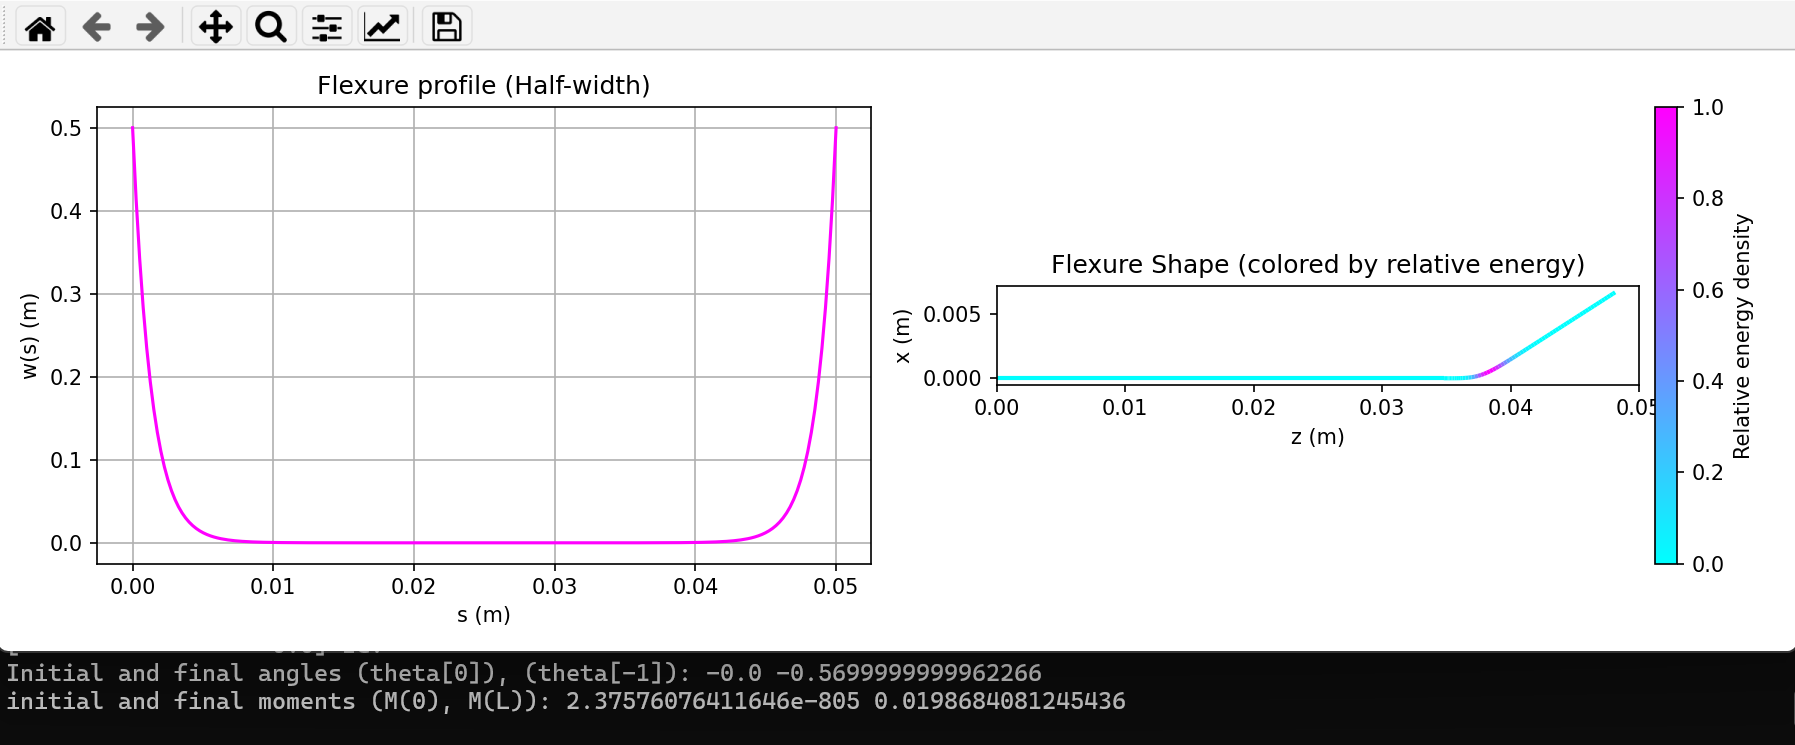
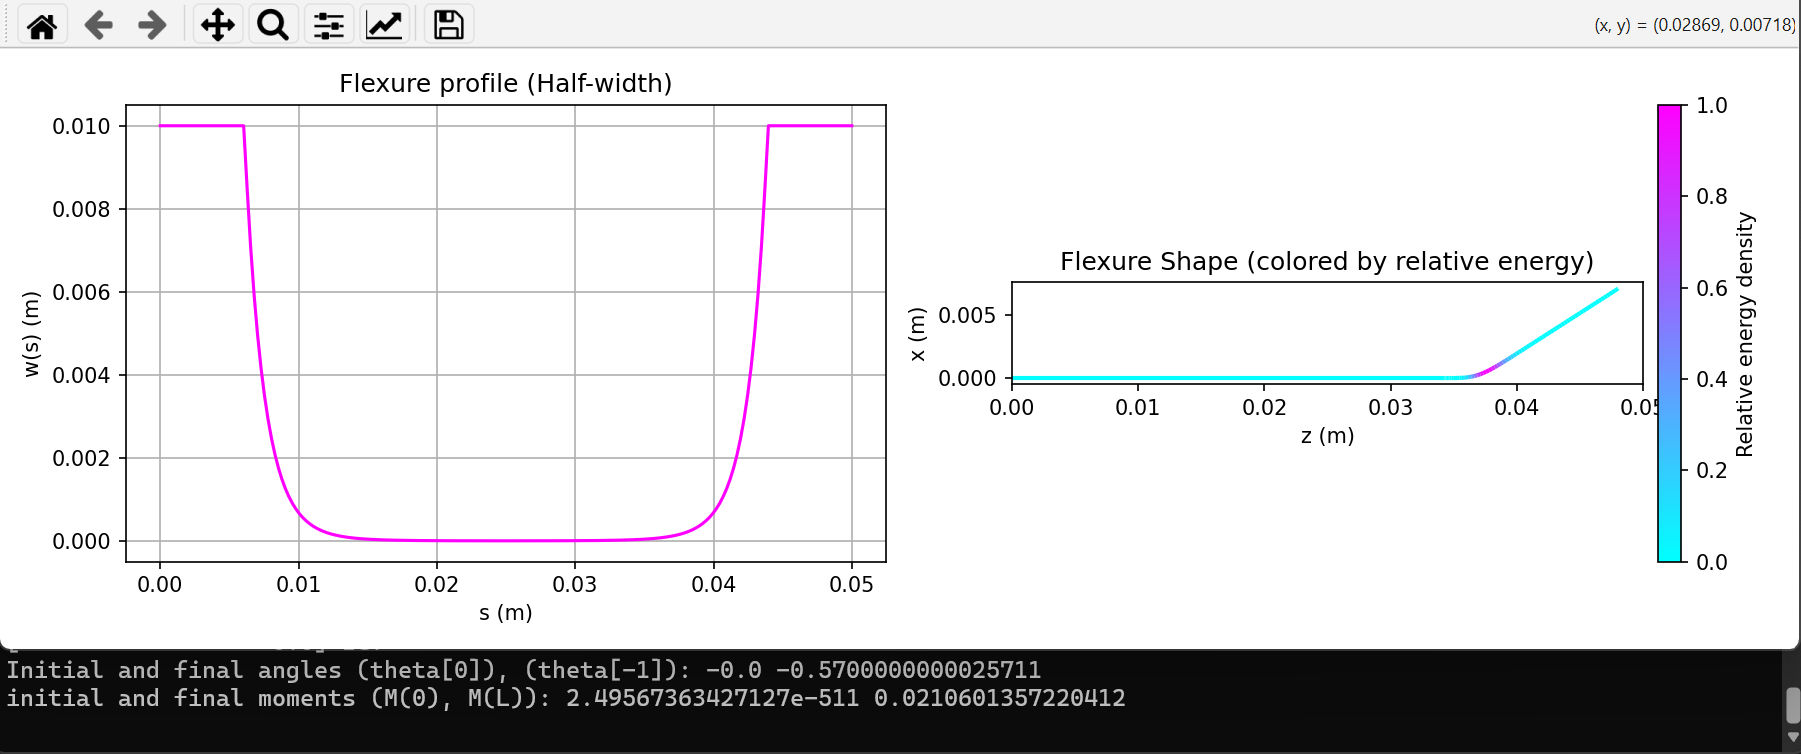
reduce halfwidth for below double precision example

Changed region(s): [[0.0, 0.0, 1.0, 1.0], [0.7175, 0.5557, 0.7487, 0.6174]]

diff --git a/example_script.py b/example_script.py
@@ -11,7 +11,7 @@ from functions_bending_schreyer_adaptive89 import  bend_theta_with_m0, integrate
 L = 0.05               # Length (m)
 T = 20e-6              # Thickness (m)
 w0 = 0.5e-3            # Mean half-width (m)
-amp = 3     # Amplitude of half width sinusoid (m)
+amp = 3.1     # Amplitude of half width sinusoid (m)
 E = 200e9              # Young's modulus (Pa)
 mass = 0.3             # Mass (kg)
 gravity = 9.81         # Gravity (m/s^2)